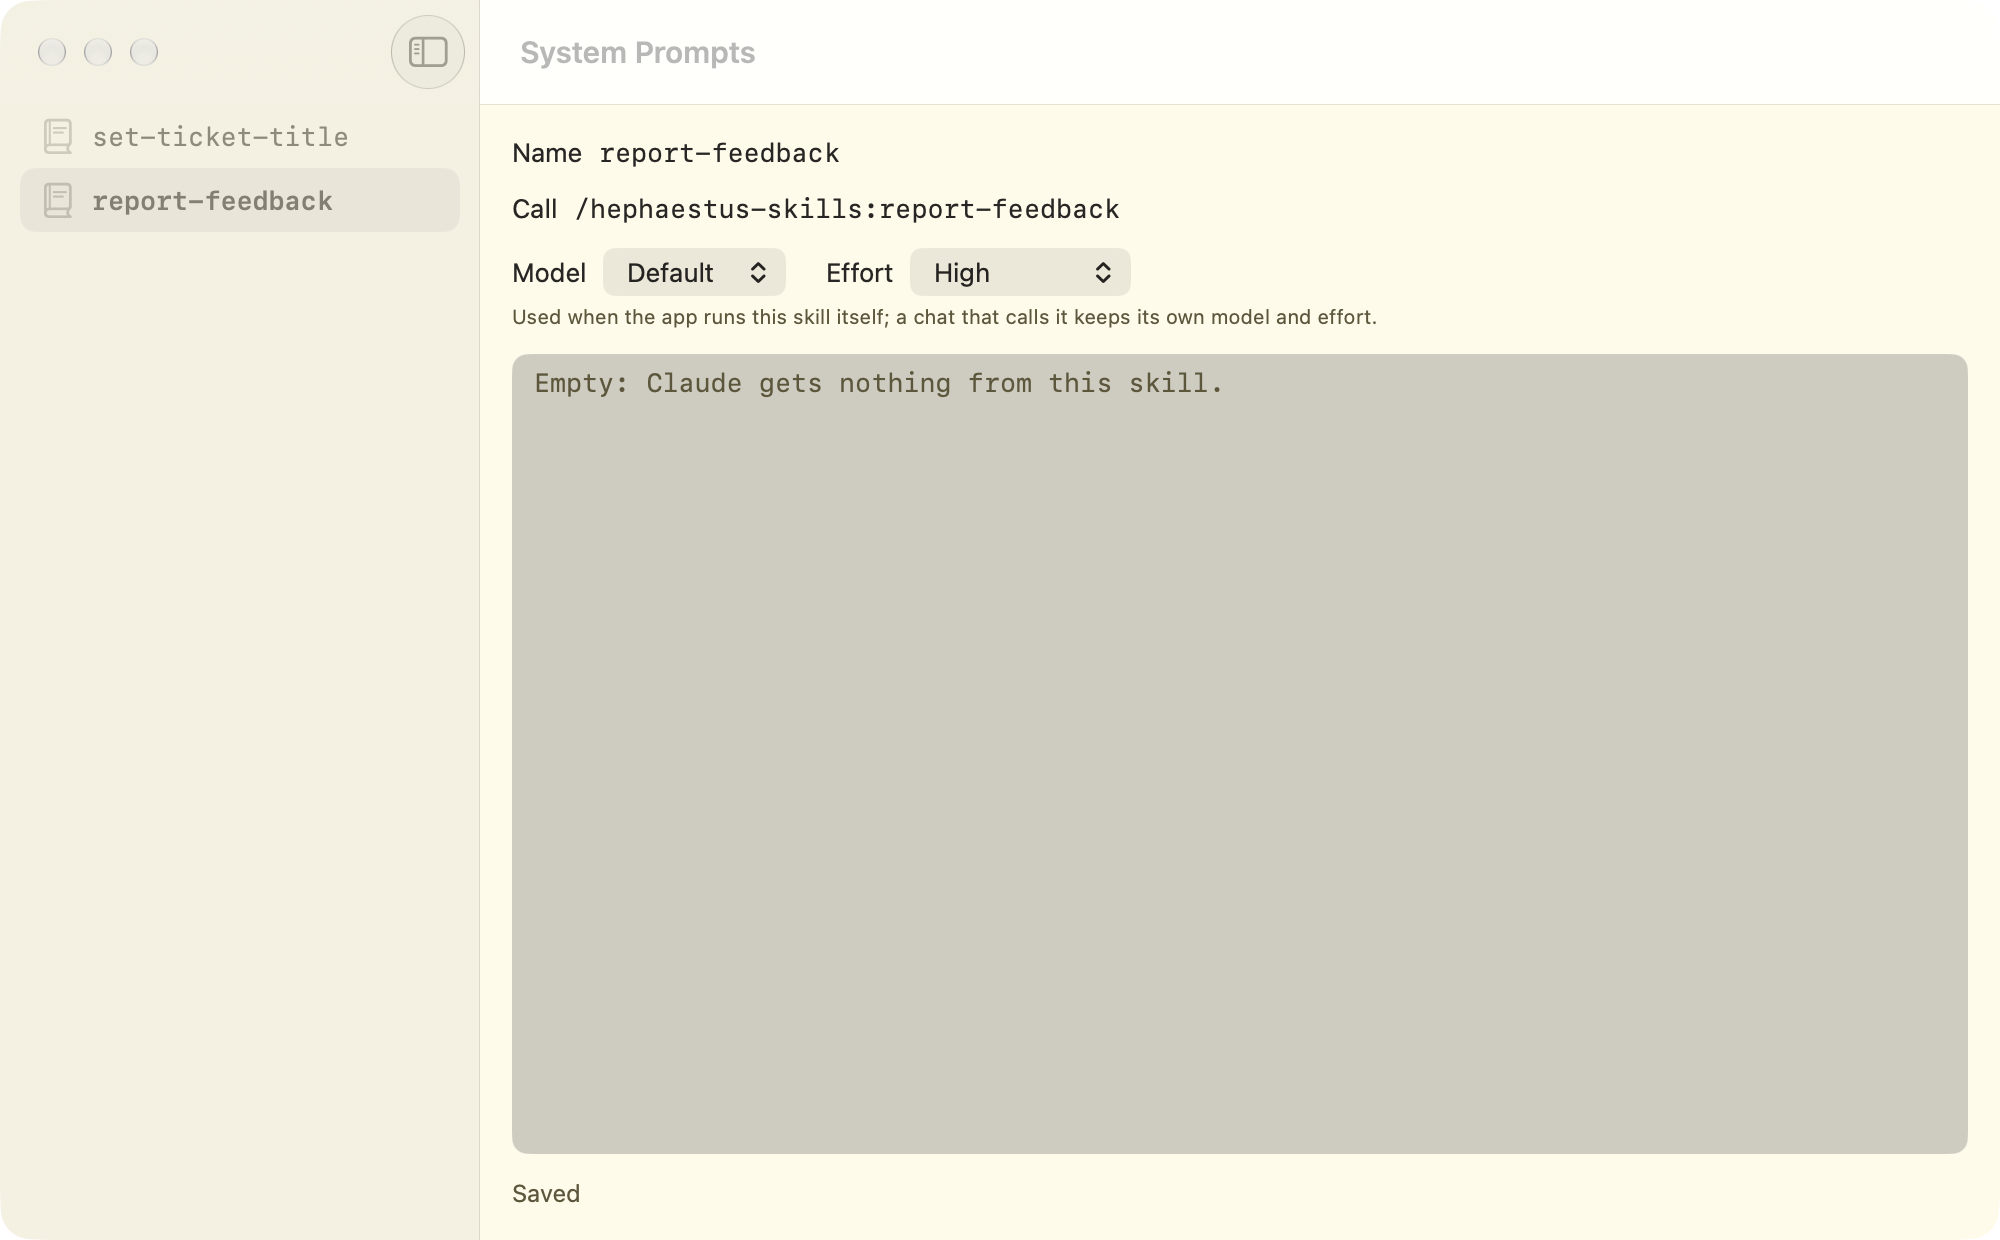
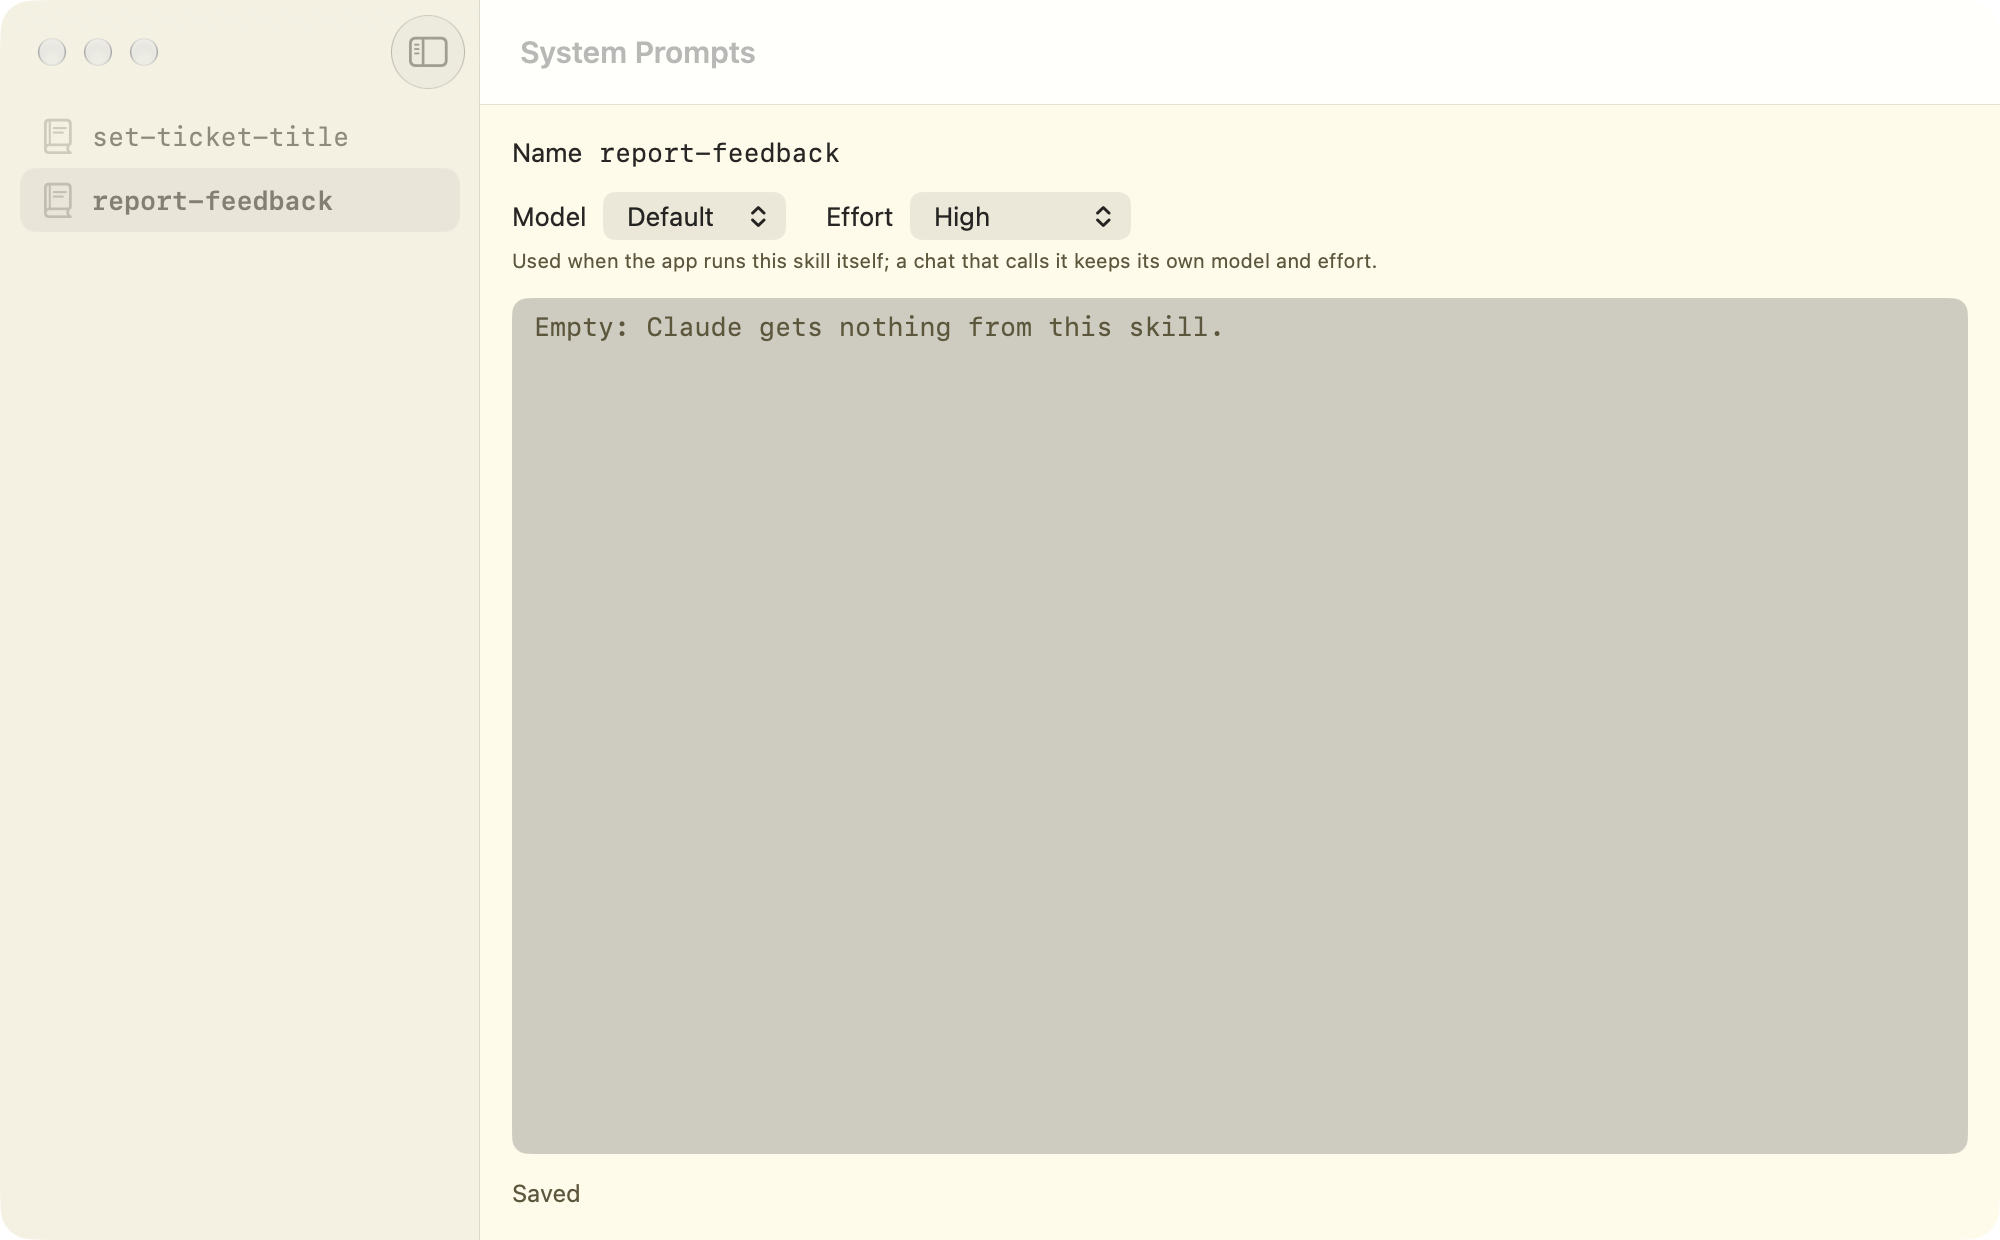
System Prompts never shows the line that calls a skill
The Call row (/hephaestus-skills:<name>) is gone: report-feedback shows as
set-ticket-title does. The page's spec says so, and its screenshot is retaken.

Changed region(s): [[0.248, 0.1532, 0.992, 0.3371]]

diff --git a/HephaestusV3Kit/Sources/ChatKit/SystemPromptsView.swift b/HephaestusV3Kit/Sources/ChatKit/SystemPromptsView.swift
@@ -258,16 +258,6 @@ private struct SkillEditor: View {
             .help(String(localized: "The app defines this skill and its name.", bundle: #bundle))
             .accessibilityIdentifier("systemPrompts.name")
 
-            if skill.isCalledFromChats {
-                LabeledContent(String(localized: "Call", bundle: #bundle)) {
-                    Text(verbatim: skill.command)
-                        .monospaced()
-                        .textSelection(.enabled)
-                }
-                .help(String(localized: "How a chat's message calls this skill.", bundle: #bundle))
-                .accessibilityIdentifier("systemPrompts.call")
-            }
-
             VStack(alignment: .leading, spacing: 4) {
                 HStack(spacing: 20) {
                     ReplySettingsRows(models: models, settings: settings, identifier: "systemPrompts", set: setSettings)

diff --git a/docs/ui/system-prompts.md b/docs/ui/system-prompts.md
@@ -10,8 +10,8 @@ the user's or the projects' own Claude skills.
 
 ## Opening it
 
-| From | Does |
-| --- | --- |
+| From                                                       | Does                                                                                   |
+|------------------------------------------------------------|----------------------------------------------------------------------------------------|
 | **Hephaestus V3 ▸ System Prompts…** (⌥⌘,), after Settings… | Selects the System Prompts tab, or opens it ([Navigation › Tabs](navigation.md#tabs)). |
 
 It is a tab, one in the whole app, like Projects and Virtual Machines (the user's choice): it has the window's
@@ -20,20 +20,19 @@ Its tab reads "System Prompts", with `text.book.closed`.
 
 ## Anatomy
 
-![System Prompts with report-feedback selected: its name, its call /hephaestus-skills:report-feedback, Model Default, Effort High, and its empty content](images/system-prompts-report-feedback.png)
-*`report-feedback`, which chats call: the Call line shows how.*
+![System Prompts with report-feedback selected: its name, Model Default, Effort High, and its empty content](images/system-prompts-report-feedback.png)
+*`report-feedback` selected: a skill chats call shows as any other.*
 
 A `NavigationSplitView`, inside the tab:
 
-| Part | Identifier | Contents |
-| --- | --- | --- |
-| **List** | `systemPrompts.list` | Every internal skill, in the code's order: `text.book.closed` and the name in the monospaced font (`systemPrompts.skill.<name>`). The first is selected when the tab opens. 200 to 360 pt wide, 240 by default. |
-| **Name** | `systemPrompts.name` | "Name" and the selected skill's name, monospaced, selectable, not editable. Help: "The app defines this skill and its name." |
-| **Call** | `systemPrompts.call` | For a skill chats call only: "Call" and how a message calls it, `/hephaestus-skills:<name>`, monospaced, selectable. Help: "How a chat's message calls this skill." |
+| Part                     | Identifier                                    | Contents                                                                                                                                                                                                                                                                                                                                                                                                                                                                      |
+|--------------------------|-----------------------------------------------|-------------------------------------------------------------------------------------------------------------------------------------------------------------------------------------------------------------------------------------------------------------------------------------------------------------------------------------------------------------------------------------------------------------------------------------------------------------------------------|
+| **List**                 | `systemPrompts.list`                          | Every internal skill, in the code's order: `text.book.closed` and the name in the monospaced font (`systemPrompts.skill.<name>`). The first is selected when the tab opens. 200 to 360 pt wide, 240 by default.                                                                                                                                                                                                                                                               |
+| **Name**                 | `systemPrompts.name`                          | "Name" and the selected skill's name, monospaced, selectable, not editable. Help: "The app defines this skill and its name."                                                                                                                                                                                                                                                                                                                                                  |
 | **Model** and **Effort** | `systemPrompts.model`, `systemPrompts.effort` | Settings ▸ Chat's pickers, side by side: the CLI's models (its fallback list until the CLI has answered), then the selected model's effort levels (none for a model without effort). They set the model and effort the app uses when it runs the skill itself; a chat that calls the skill keeps its own (the user's request). Under them, in `caption` and `textSecondary`: "Used when the app runs this skill itself; a chat that calls it keeps its own model and effort." |
-| **Content** | `systemPrompts.content` | A `TextEditor` in the monospaced body font, on `surfaceSunken`, filling the rest. While empty: "Empty: Claude gets nothing from this skill." in `textSecondary`. Its VoiceOver label is "Content". |
-| **Status** | `systemPrompts.status` | Under the content, in `callout`: "Saved" or "Editing…" in `textSecondary`; after a failed save, `exclamationmark.triangle.fill` and "Not saved: <reason>" in `danger`. |
-| **Nothing selected** | `systemPrompts.nothing` | "No Skill Selected", "Select an internal skill to edit its content." |
+| **Content**              | `systemPrompts.content`                       | A `TextEditor` in the monospaced body font, on `surfaceSunken`, filling the rest. While empty: "Empty: Claude gets nothing from this skill." in `textSecondary`. Its VoiceOver label is "Content".                                                                                                                                                                                                                                                                            |
+| **Status**               | `systemPrompts.status`                        | Under the content, in `callout`: "Saved" or "Editing…" in `textSecondary`; after a failed save, `exclamationmark.triangle.fill` and "Not saved: <reason>" in `danger`.                                                                                                                                                                                                                                                                                                        |
+| **Nothing selected**     | `systemPrompts.nothing`                       | "No Skill Selected", "Select an internal skill to edit its content."                                                                                                                                                                                                                                                                                                                                                                                                          |
 
 The window's title is "System Prompts". In narrow windows the list folds behind the sidebar button, as every
 split view does.
@@ -60,17 +59,17 @@ run is for is linked as a chat's message links the item of its chip, with an `At
 So until the content says how to answer, the answer is what the model makes of the message and of what it
 reads.
 
-| Name | Default content | Default model and effort | Used by |
-| --- | --- | --- | --- |
-| `set-ticket-title` | Empty | Haiku, Low: a short answer (default chosen at design time) | A ticket created without a title (Claude's `create_ticket`, a feedback chat's for instance), and **Generate Title**, in New Ticket and in the ticket editor ([Tickets › Titles written by Claude](tickets.md#titles-written-by-claude)). Its message is the ticket's `Attached:` line, Claude reading the ticket whole (the user's request); in the editor, after the description being edited while it isn't saved; in New Ticket, before the ticket exists, the description alone. |
-
-| `report-feedback` | Empty | `default`, High (a chat's defaults; the app never runs it itself) | The first message of a [feedback chat](chat.md#feedback), `/hephaestus-skills:report-feedback` then the comment and the feedback's context, screenshot and files (the user's request, as V2's `feedback` skill). What Claude does with the feedback, such as which ticket to create and its priority, is this skill's to say. |
+| Name               | Default content | Default model and effort                                          | Used by                                                                                                                                                                                                                                                                                                                                                                                                                                                                              |
+|--------------------|-----------------|-------------------------------------------------------------------|--------------------------------------------------------------------------------------------------------------------------------------------------------------------------------------------------------------------------------------------------------------------------------------------------------------------------------------------------------------------------------------------------------------------------------------------------------------------------------------|
+| `set-ticket-title` | Empty           | Haiku, Low: a short answer (default chosen at design time)        | A ticket created without a title (Claude's `create_ticket`, a feedback chat's for instance), and **Generate Title**, in New Ticket and in the ticket editor ([Tickets › Titles written by Claude](tickets.md#titles-written-by-claude)). Its message is the ticket's `Attached:` line, Claude reading the ticket whole (the user's request); in the editor, after the description being edited while it isn't saved; in New Ticket, before the ticket exists, the description alone. |
+| `report-feedback`  | Empty           | `default`, High (a chat's defaults; the app never runs it itself) | The first message of a [feedback chat](chat.md#feedback), `/hephaestus-skills:report-feedback` then the comment and the feedback's context, screenshot and files (the user's request, as V2's `feedback` skill). What Claude does with the feedback, such as which ticket to create and its priority, is this skill's to say.                                                                                                                                                        |
 
 **Called skills.** `report-feedback` is called from chats (V2's called skills); `set-ticket-title` the app runs
 itself. Every chat's CLI gets the called skills as the plugin `hephaestus-skills` ([Data › Chat
 plugin](../data.md#chat-plugin)), so a message starting with `/hephaestus-skills:<name>` calls one: Claude gets
 the skill's content, then the rest of the message. A chat that calls a skill keeps its own model and effort. The
-skills the app runs itself aren't in the plugin: no chat sees them.
+skills the app runs itself aren't in the plugin: no chat sees them. The page shows a called skill as any other:
+it never shows the `/hephaestus-skills:<name>` line that calls it (the user's rule, 17 November 2026).
 
 A skill the code adds without its own defaults runs on the CLI's `default` model at High effort, as a new chat
 does.
